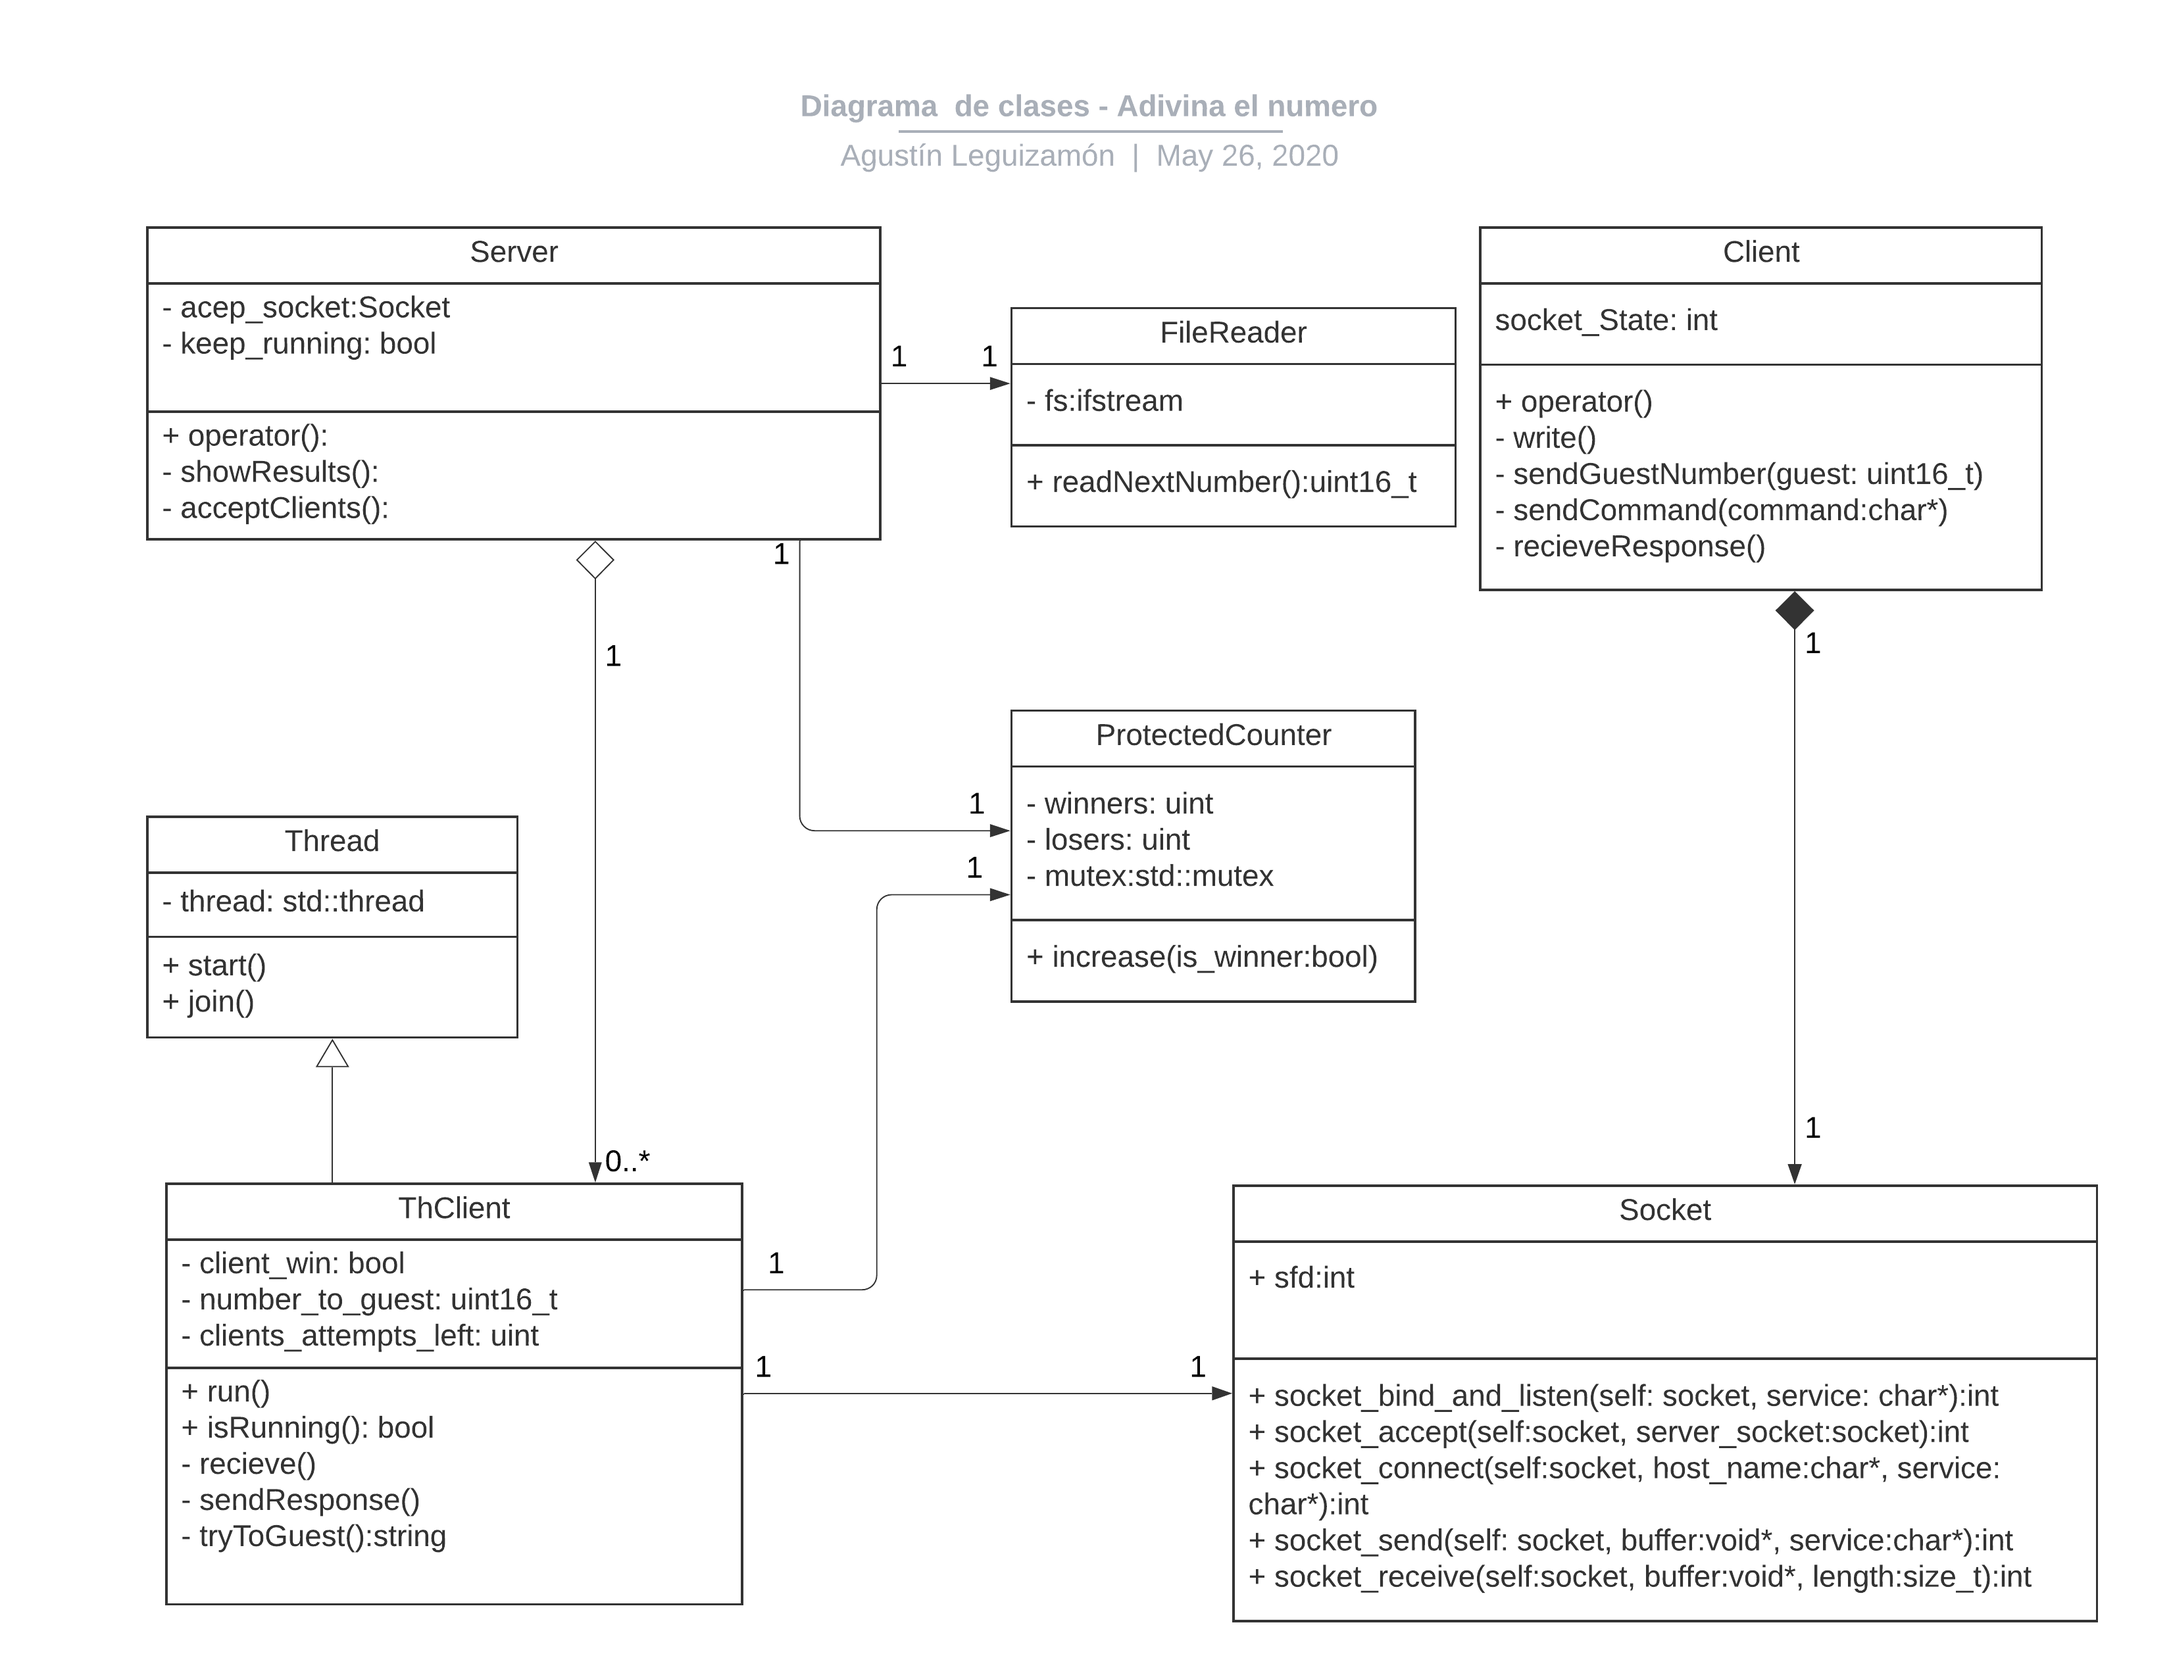
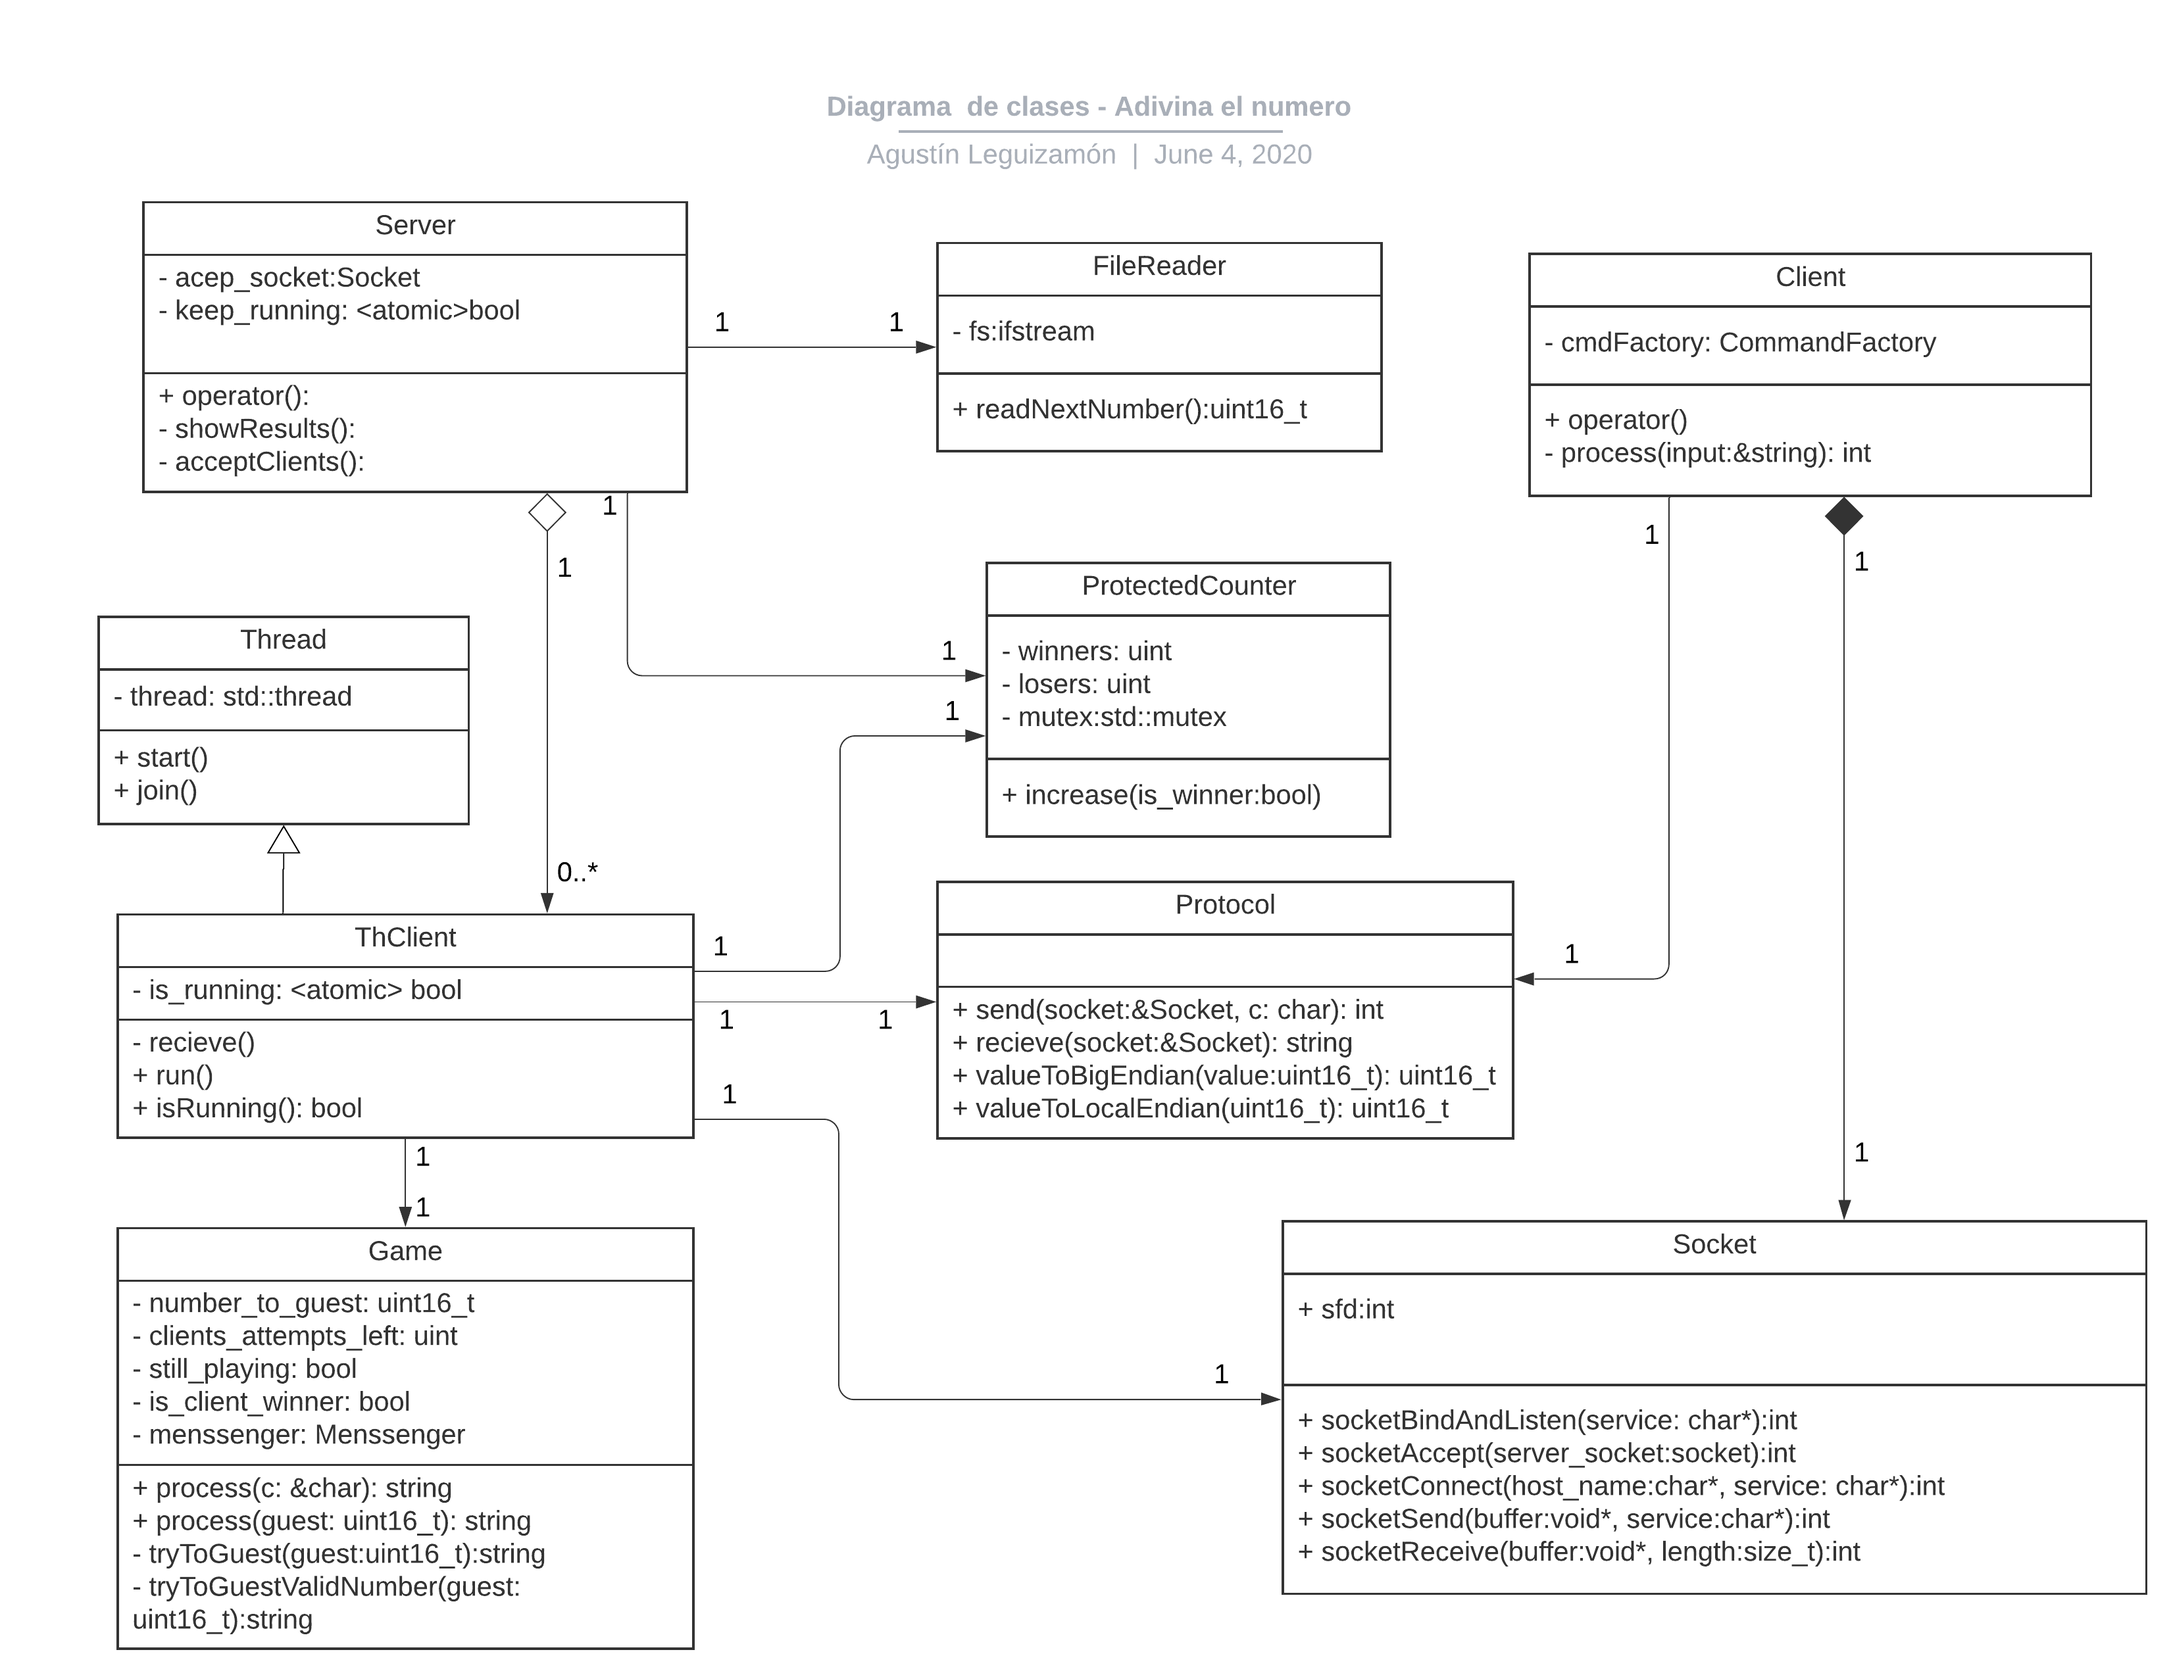
Informe e img

diff --git a/README.md b/README.md
@@ -7,7 +7,7 @@ Padrón: 99535
 
 Link Github: https://github.com/AgustinLeguizamon/tp3
 
-Instancia de entrega: 1
+Instancia de entrega: 2
 
 ### Introducción:
 En el siguiente diagrama de clases se resaltan las relaciones entre las clases más relevantes en cuanto a la implementación.
@@ -34,24 +34,50 @@ Finalmente cierra el hilo aceptador liberando los recursos y muestra los resulta
 
 #### ThClient
 
-Encargado de la lógica del juego, cada vez que un nuevo cliente se conecta, un nuevo hilo ThClient es lanzado con el socket aceptado. Esta clase se encarga de la comunicación con el cliente para el juego. Una vez que el cliente finaliza la partida el hilo entra en estado "joinable".
+Cada vez que un nuevo cliente se conecta, un nuevo hilo ThClient es lanzado con el socket aceptado. Esta clase se encarga de la comunicación con el cliente para el juego. Una vez que el cliente finaliza la partida el hilo entra en estado "joinable".
 Todos los ThClient comparten un contador con la cantidad de ganadores y perdedores (este está protegido por un mutex).
 El constructor por copia es utilizado dado que cada hilo se guarda en un vector, y de esta manera evitamos la copia. También el socket tiene constructor por copia de manera de poder retornarlo en la función `Socket::accept`. 
+
+#### ProtectedCounter
+
+Lleva la cuenta de cuantos clientes han perdido o ganado.
+Cada vez que un juego finaliza se incrementa el contador correspondiente. Protegido por un mutex al estar compartido por todos los hilos **ThClient**.
+
+
+#### Game
+
+Encargado de la logica del juego.
+Cada juego tiene un numero que debe ser adivinado por el cliente y una cantidad de intentos. 
+**Game** recibe los comandos 'h', 's' o un numero y escribe un mensaje con la informacion para ser enviada al cliente dependiendo del comando. En el caso de recibir un numero este es el que se compara digito a digito con aquel que tiene que ser adivinado para ganar. El juego termina cuando adivina, se queda sin intentos o recibe el comando 's' (Surrender).
 
 #### Client
 
 Cada cliente es un programa con un socket `client_socket` cuyo constructor se conecta al server y espera por entrada estándar el ingreso de los comandos válidos, estos son verificados y luego enviados por el socket al server (ThClient), luego reciben la respuesta que se imprime por salida estándar.
 
+#### CommandFactory
+Design pattern Factory, recibe por parametro un string de la entrada estandar y dependiendo del tipo devuelve un puntero a **Command**. Existen tres casos, si el input es "RENDIRSE" devuelve un puntero a **Surrender**, si es "AYUDA" devuelve **Help** y en el caso de un numero valido devuelve **Number**.
+Todos responden al operator() de manera polimorfica que sera detallada a continuación.
+
+##### Surrender
+Delega a **Protocol** el envio por socket del caracter 's'.
+
+##### Help
+Delega a **Protocol** el envio por socket del caracter 'h'.
+
+##### Number
+Delega a **Protocol** el envio por socket del caracter 'n'.
+Delega a **Protocol** el envio por socket del numero con el que se construyo con **CommandFactory**
+
+#### Protocol
+Encargado de la logica de envio y recepcion de las tiras de bytes entre los sockets del cliente y el servidor. Tambien del pasado al endianess del network al local y viceversa.
+
+#### Excepciones
+
+Hay dos tipos de excepciones en este trabajo. Una genérica llamada **OSError** que posee una cantidad de parametros variables en donde se puede detallar el tipo de error. Esta es utilizada para las excepciones en el **Socket** cuando ocurre un problema en el creación del socket o al intentar establecer un canal de comunicación y el **FileReader** por si el archivo falla al abrir.
+La segunda excepcion es **ClosedSocketException** lanzada en el momento que falla el socket aceptador, cosa que se espera en el momento del cierre del servidor y para evitar nuevo ingreso de clientes y orquestar la liberacion de los recursos.
+
+
+
 #### Comentarios de la entrega
 
-1. Para el envío de strings se utilizan dos send/recieve es decir que el primer send/recv envía el uint32 con el largo del mensaje y luego el segundo send/recv es para el string en sí. Es decir que no se envía el uint32 y el string en un solo send en ambos sentidos.
-**Nota:** No se si esto se considera válido o es obligatorio que en un único send este tanto el uint32 y el string.
-
-2. El cierre de cliente se encuentra hecho de manera que verifica si recibe el string Ganaste o Perdiste lo que es poco práctico pero caso contrario el cliente debía intentar ingresar un numero valido para que recién falle el send y de esa manera cerrar el socket cliente.
-
-3. Al momento de agregar los hilos ThCLient al vector 'clients' se hace un `clients.reserve` dado que al no hacerlo se produce un error y la terminación del programa, como no pude encontrar una solución definitiva, la reserva de memoria está fijada a un valor arbitrario con `MAX_CLIENTS`
-
-4. Al dejarlo como última tarea el manejo de excepciones cubre una mínima parte del trabajo práctico.
-Particularmente intente crear una excepción `OSError` pero su uso resultaba en una excepción del tipo double free y por eso se encuentra sin utilizar.
-
-5. El cliente debe terminar de jugar para que el server pueda terminar de liberar los recursos.
+El polimorfismo se aplico en la clase **Client** utilizando el design pattern Factory aplicado a los comandos (CommandFactory). En el caso del **ThClient** simplemente se resuelve delegando la tarea a **Game**, aunque tambien se pudo haber utilizado el CommandFactory.
